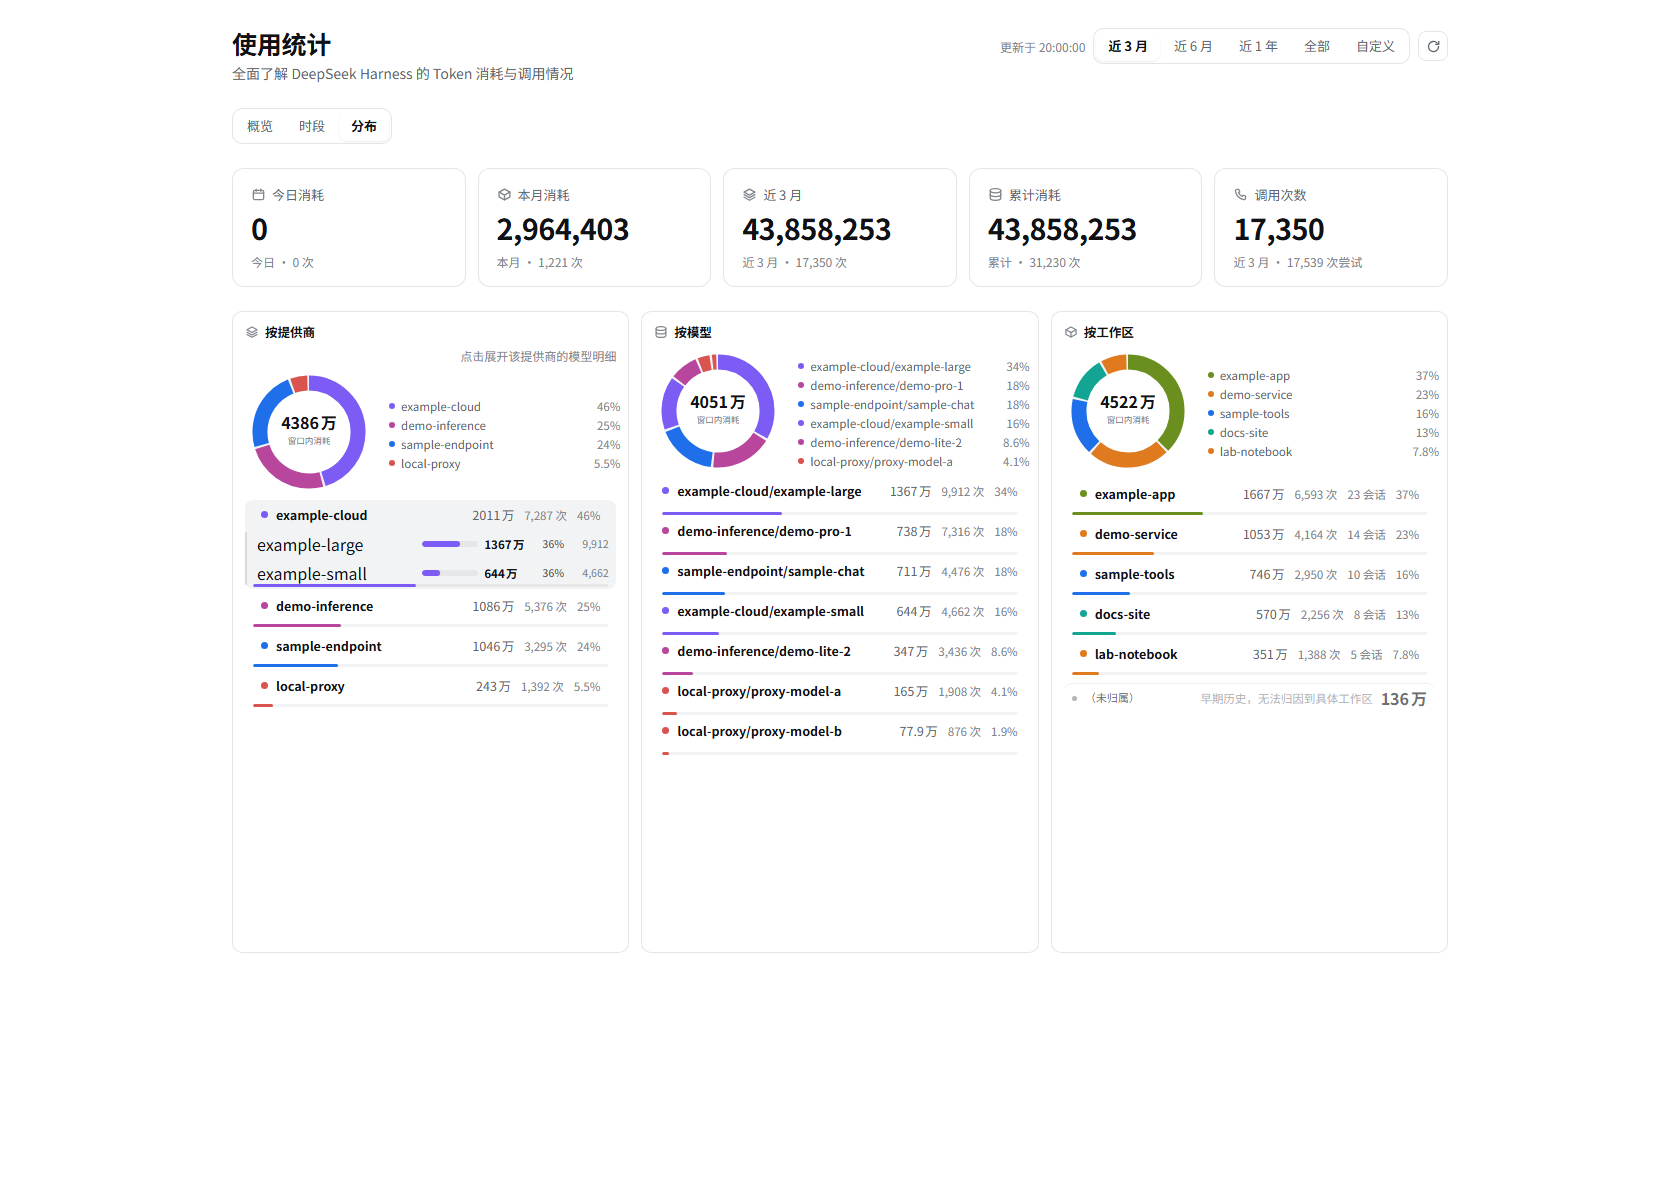
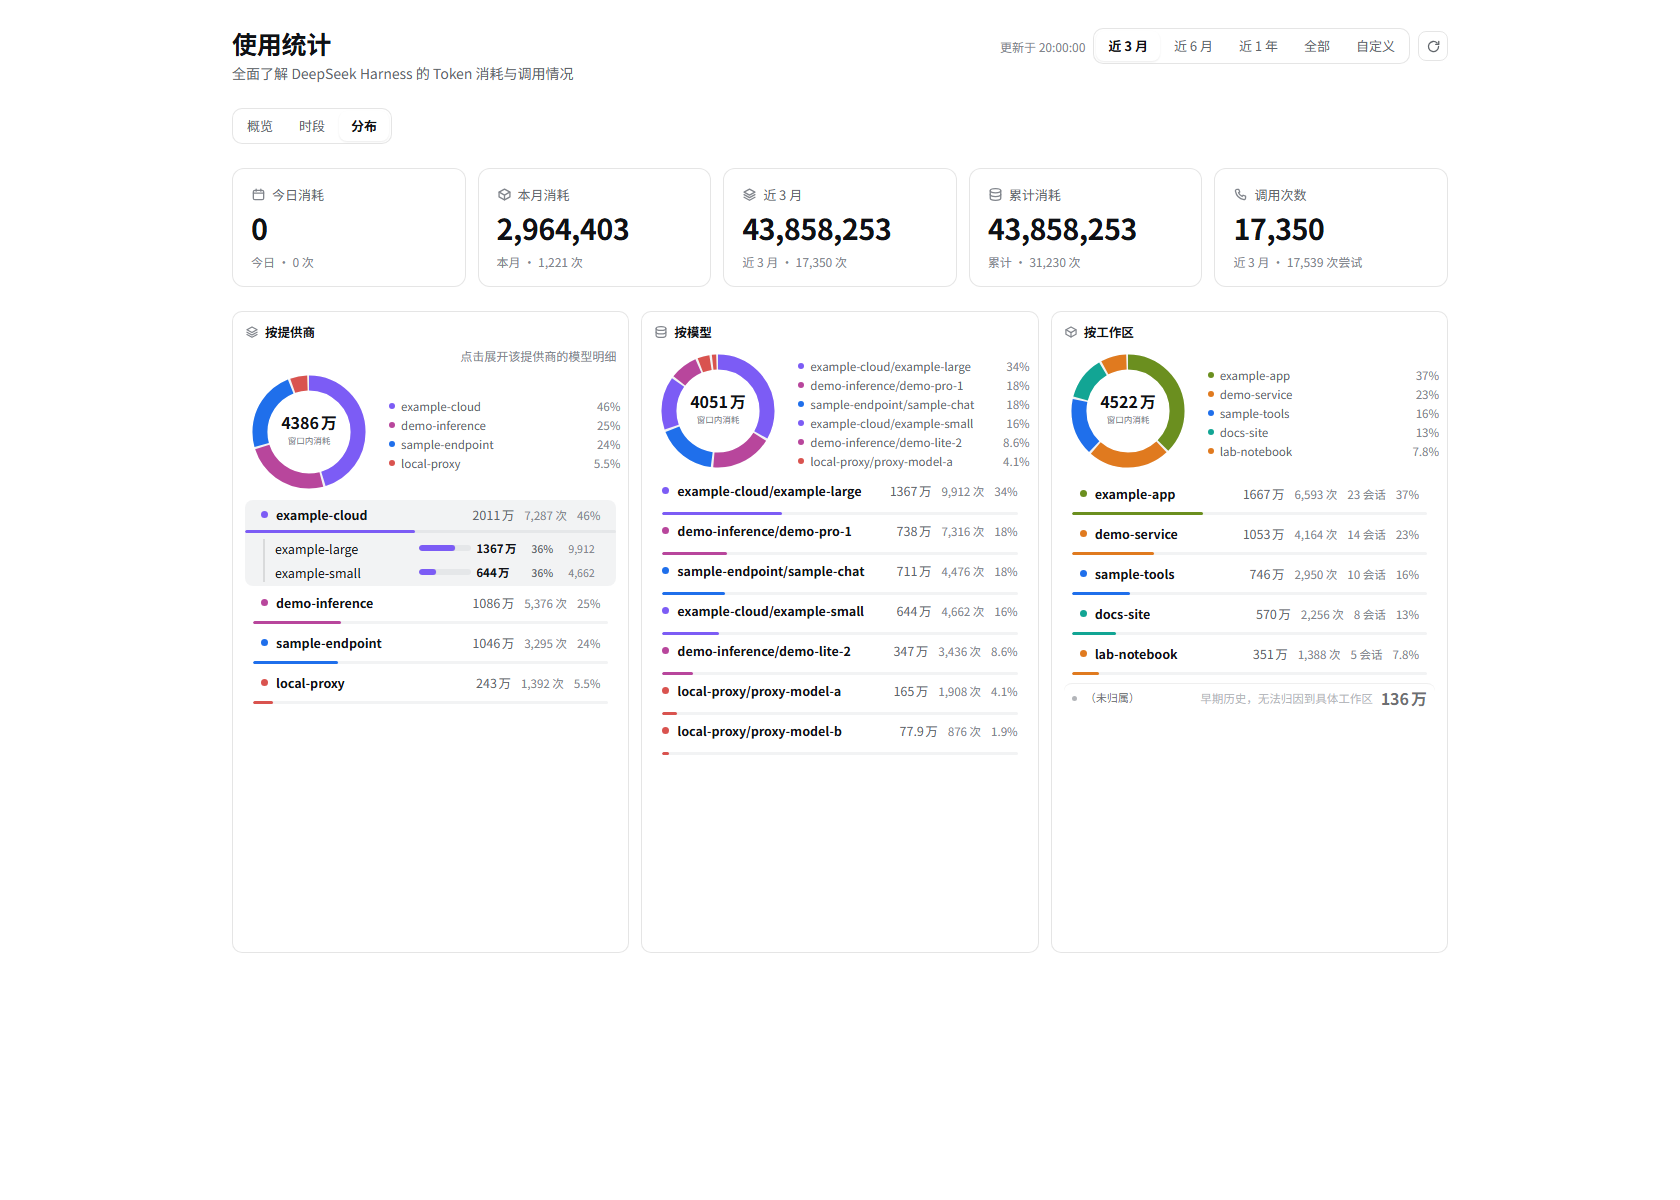
fix(dist): expanded provider row layout (track, thread, alignment)
The share bar was absolute bottom:2px, which on an expanded row painted at
the model list's foot; the expanded row now switches to a column flex and
the bar becomes its second flow child, so it stays under the header in both
states. The model grid gains the dialog's thread line, an 18px indent under
the provider dot, and 12.5px/400 ink. A 16px right margin lines the model
figures up with the header stats (headless-measured alignDelta: 0).
Add the one-off screenshot probe as preview/shot-provider-detail.mjs.

Changed region(s): [[0.2476, 0.4317, 0.3714, 0.5858], [0.1548, 0.4317, 0.2167, 0.5858]]

diff --git a/lib/client.js b/lib/client.js
@@ -903,6 +903,14 @@ function fmtExact(value) {
 		".udw_wsUnattr .udw_wsStats{pointer-events:auto}",
 		".udw_wsTrack{background:var(--dsw-alias-interactive-bg-hover);border-radius:999px;height:3px;overflow:hidden;position:absolute;left:8px;right:8px;bottom:2px}",
 		".udw_wsFill{border-radius:999px;height:100%}",
+		// The share bar is a hairline under the ROW's own header. A collapsed row
+		// is 38px, so absolute-bottom lands there; an expanded one is header +
+		// model list, and bottom would paint across the detail's foot — where it
+		// reads as the model list's own underline. The expanded row switches to a
+		// column, so the bar simply becomes its second flow child: header, bar,
+		// model list — the bar sits under the header in both states, no math.
+		".udw_wsRow[data-open=true]{flex-direction:column;align-items:stretch;display:flex}",
+		".udw_wsRow[data-open=true] .udw_wsTrack{position:static;flex:none}",
 		 // Workspace two-column: donut+legend on the left, list on the right.
 		 // 分布 tab: provider / model / workspace side by side, one screen.
 		 // All three cards share ONE height: `align-items:stretch` (the grid
@@ -1074,13 +1082,20 @@ function fmtExact(value) {
 		// fit beside any name. Same row language, compact sizing: a shorter bar,
 		// tighter figure columns, and the name now yields — the bar and figures
 		// stay readable, a long name ellipsizes instead of pushing them out.
-		".udw_wsList .udw_modelList{grid-template-columns:minmax(28px,max-content) minmax(6px,1fr) max-content;gap:5px 8px;margin:2px 0 4px}",
-		".udw_wsList .udw_modelName{max-width:140px}",
-		".udw_wsList .udw_modelDetail{gap:6px}",
-		".udw_wsList .udw_modelBar{width:56px}",
-		".udw_wsList .udw_modelTokens{min-width:52px;font-size:11.5px}",
-		".udw_wsList .udw_modelHit{min-width:34px;font-size:10.5px}",
-		".udw_wsList .udw_modelCalls{min-width:34px;font-size:10.5px}",
+		//
+		// The grid hangs off the provider row's header: the thread line starts at
+		// the dot's center (dot 7px + 8px row padding + half the 8px gap), the
+		// header's own name column, so the models visually belong to the provider
+		// rather than to the card. Rows inherit the header's 12.5px ink here — the
+		// dialog's 14px base would make a model row out-size its provider.
+		".udw_wsList .udw_wsRow[data-open=true] > .udw_modelList{grid-template-columns:minmax(28px,max-content) minmax(6px,1fr) auto;gap:5px 8px;margin:6px 16px 4px 18px;border-left:2px solid var(--dsw-alias-border-l2);padding-left:10px}",
+		".udw_wsList .udw_wsRow[data-open=true] > .udw_modelList .udw_modelDetail{justify-content:flex-end}",
+		".udw_wsList .udw_modelList .udw_modelName{max-width:104px;font-size:12.5px;font-weight:400}",
+		".udw_wsList .udw_modelDetail{gap:5px}",
+		".udw_wsList .udw_modelBar{width:52px}",
+		".udw_wsList .udw_modelTokens{min-width:50px;font-size:11.5px}",
+		".udw_wsList .udw_modelHit{min-width:32px;font-size:10.5px}",
+		".udw_wsList .udw_modelCalls{min-width:32px;font-size:10.5px}",
 			".udw_providerMeta{color:var(--dsw-alias-label-secondary);flex-wrap:wrap;gap:2px 6px;margin:0;font-size:12px;line-height:1.5;display:flex}",
 			".udw_barRow{grid-template-columns:minmax(0,1fr) auto;gap:4px 10px;align-items:center;display:grid}",
 			".udw_barLabel{min-width:0;align-items:center;gap:7px;display:flex}",

diff --git a/CHANGELOG.md b/CHANGELOG.md
@@ -26,6 +26,17 @@
 - 新增 `preview/verify-provider-detail.mjs`：无头 Chrome 打开「分布」页、点开第一个
   提供商、断言详情展开且模型条按 Token 降序、再点收起。
 
+### 修复
+
+- 展开态的三个样式问题（对照弹窗截图发现）：
+  1. **提供商比例条跑到展开块底部**——`.udw_wsTrack` 原是 `absolute; bottom:2px`，
+     折叠行 38px 时正好贴行头，展开后行变高、条就画到了模型列表末尾。展开行改为
+     纵向 flex，条成为流的第二个子元素（行头 → 条 → 模型列表），两种状态都贴行头。
+  2. **模型行没挂在提供商名下**——模型网格现在有 18px 缩进 + 弹窗同款竖线，从圆点
+     下方起线；字号 12.5px（弹窗基底 14px 会让模型行比提供商行还大）、字重 400。
+  3. **模型数字右缘与行头数字不对齐**（凸出 16px）——网格右缘补 16px margin
+     （8px 行内边距 + 8px 滚动条补偿），无头 Chrome 实测 `alignDelta: 0`。
+
 ## 0.1.5 — 2026-11-08
 
 ### 新增
